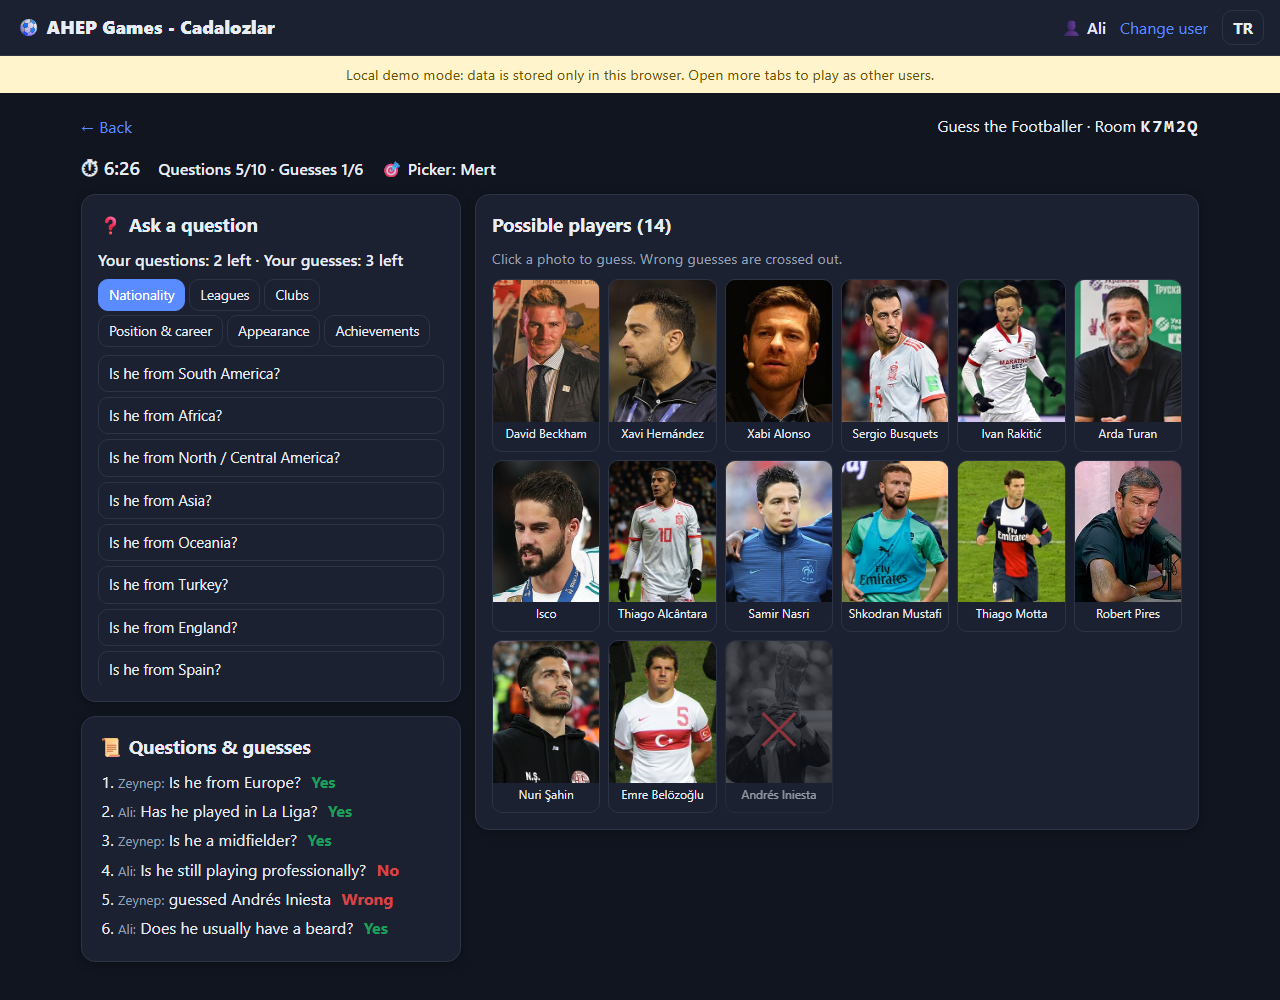
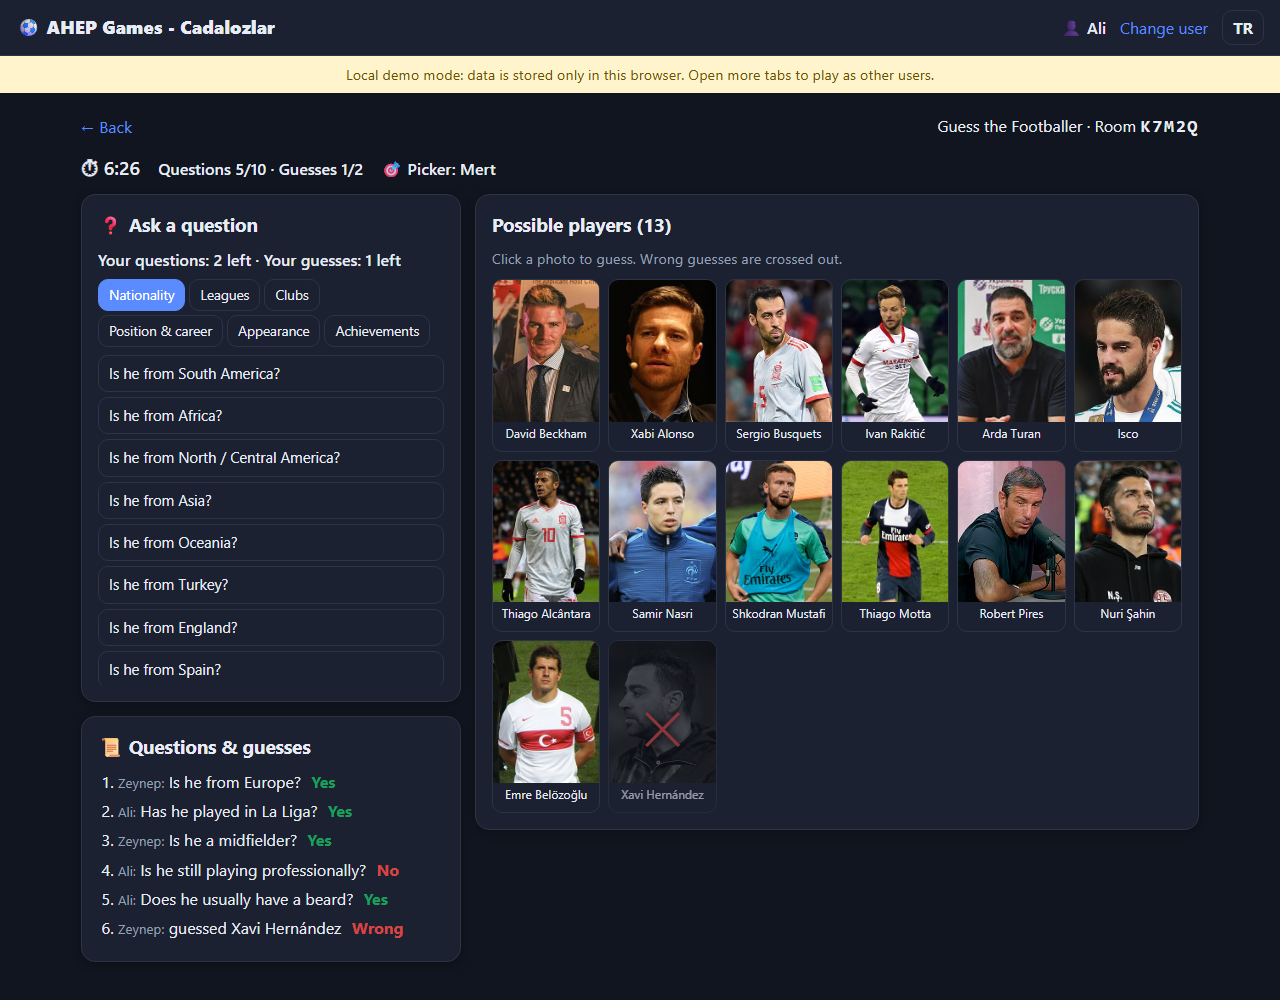
Trivia: 10 answer options; Footballer: 2 guesses per round
- Trivia questions show 10 options: 3 wrong answers from Open Trivia DB
  plus 6 generated (nearby numbers or similar answers from other questions)
- Guess the Footballer allows 2 guesses in total, split with the same rule
  as questions (3+ guessers share both guesses by vote)
- Status bar totals come from the rule constants
- Refreshed README screenshots

Changed region(s): [[0.375, 0.279, 0.9375, 0.806], [0.0938, 0.899, 0.3125, 0.961], [0.2812, 0.248, 0.3125, 0.279]]

diff --git a/js/trivia/questions.js b/js/trivia/questions.js
@@ -1,7 +1,7 @@
-// Questions come from Open Trivia DB (free, no key). Each question: {q, answers[4], correct, cat}
+// Questions come from Open Trivia DB (free, no key). Each question: {q, answers[10], correct, cat}
 import { shuffle } from "../lib.js";
 
-// [id, English name, Turkish name, number of 4-option questions (counted October 2026)]
+// [id, English name, Turkish name, number of multiple-choice questions (counted October 2026)]
 export const CATEGORIES = [
   [9, "General Knowledge", "Genel Kültür", 380],
   [21, "Sports", "Spor", 160],
@@ -43,18 +43,56 @@ async function fetchCategory(cat, amount) {
   return [];
 }
 
+export const OPTIONS = 10;
+
 export async function loadQuestions(cats, total) {
-  const per = Math.ceil(total / cats.length) + 2;
+  // Fetch extra questions: the unused ones still supply wrong answers for the others.
+  const per = Math.min(50, Math.max(30, Math.ceil(total / cats.length) + 2));
+  const d = decodeURIComponent;
   let all = [];
   for (let i = 0; i < cats.length; i++) {
     if (i > 0) await sleep(5200);
-    all = all.concat((await fetchCategory(cats[i], Math.min(50, per))).map((r) => ({ ...r, catId: cats[i] })));
+    const got = await fetchCategory(cats[i], per);
+    all = all.concat(
+      got.map((r) => ({ q: d(r.question), correct: d(r.correct_answer), wrong: r.incorrect_answers.map(d), cat: cats[i] }))
+    );
   }
-  const d = decodeURIComponent;
-  return shuffle(all)
-    .slice(0, total)
-    .map((r) => {
-      const answers = shuffle([r.correct_answer, ...r.incorrect_answers].map(d));
-      return { q: d(r.question), answers, correct: answers.indexOf(d(r.correct_answer)), cat: r.catId };
-    });
+  all = shuffle(all);
+  return all.slice(0, total).map((r) => {
+    const answers = shuffle([r.correct, ...r.wrong, ...extraWrong(r, all, OPTIONS - 1 - r.wrong.length)]);
+    return { q: r.q, answers, correct: answers.indexOf(r.correct), cat: r.cat };
+  });
+}
+
+// Open Trivia DB gives 3 wrong answers; the rest are made up here.
+// Numbers get nearby numbers; text answers borrow similar-looking answers from other questions.
+function extraWrong(r, all, n) {
+  const taken = new Set([r.correct, ...r.wrong].map((a) => a.toLowerCase()));
+  const out = [];
+  const add = (a) => {
+    if (out.length < n && a && !taken.has(String(a).toLowerCase())) {
+      taken.add(String(a).toLowerCase());
+      out.push(String(a));
+    }
+  };
+  if (/^-?\d+$/.test(r.correct)) {
+    const v = Number(r.correct);
+    const isYear = v >= 1000 && v <= 2100;
+    for (let tries = 0; out.length < n && tries < 200; tries++) {
+      const spread = isYear ? 15 : Math.max(3, Math.round(Math.abs(v) * 0.6));
+      const c = v + Math.round((Math.random() * 2 - 1) * spread);
+      if (c !== v && (v < 0 || c >= 0)) add(c);
+    }
+  }
+  const shape = (a) => [/^-?\d+$/.test(a), a.split(/\s+/).length, a.length];
+  const [num, words, len] = shape(r.correct);
+  const score = (a) => {
+    const [n2, w2, l2] = shape(a);
+    return (n2 === num ? 0 : 100) + Math.abs(w2 - words) * 5 + Math.abs(l2 - len) / 3 + Math.random() * 6;
+  };
+  for (const pool of [all.filter((x) => x.cat === r.cat && x !== r), all.filter((x) => x !== r)]) {
+    const candidates = pool.flatMap((x) => [x.correct, ...x.wrong]).map((a) => [score(a), a]);
+    for (const [, a] of candidates.sort((x, y) => x[0] - y[0])) add(a);
+  }
+  return out;
 }

diff --git a/js/i18n.js b/js/i18n.js
@@ -82,7 +82,7 @@ const STR = {
     winnerIs: "{name} found it!",
     pickerWins: "Nobody found it — {name} (picker) wins!",
     potInfo: "Pot: {pot} pts (questions {q}, wrong guesses {w}, minutes {m})",
-    questionsCount: "Questions {used}/10 · Guesses {g}/6",
+    questionsCount: "Questions {used}/{tq} · Guesses {g}/{tg}",
     cat_nat: "Nationality",
     cat_league: "Leagues",
     cat_club: "Clubs",
@@ -199,7 +199,7 @@ const STR = {
     winnerIs: "{name} buldu!",
     pickerWins: "Kimse bulamadı — seçici {name} kazandı!",
     potInfo: "Havuz: {pot} puan (soru {q}, yanlış tahmin {w}, dakika {m})",
-    questionsCount: "Soru {used}/10 · Tahmin {g}/6",
+    questionsCount: "Soru {used}/{tq} · Tahmin {g}/{tg}",
     cat_nat: "Uyruk",
     cat_league: "Ligler",
     cat_club: "Kulüpler",

diff --git a/css/style.css b/css/style.css
@@ -159,7 +159,7 @@ input, select {
 .question { font-size: 1.3rem; font-weight: 600; margin: 14px 0; }
 .phase-msg { font-weight: 700; }
 .answers { display: grid; grid-template-columns: 1fr 1fr; gap: 10px; }
-.answer { text-align: left; padding: 14px; font-size: 1rem; display: flex; flex-direction: column; gap: 4px; }
+.answer { text-align: left; padding: 10px 14px; font-size: 1rem; display: flex; flex-direction: column; gap: 4px; }
 .answer:disabled { opacity: 1; cursor: default; }
 .answer.right { background: var(--yes); color: #fff; border-color: var(--yes); }
 .answer.wrong { background: var(--no); color: #fff; border-color: var(--no); }

diff --git a/js/footballer/view.js b/js/footballer/view.js
@@ -123,7 +123,7 @@ function playing() {
   return html`
     <div class="status-bar">
       <span class="timer ${left < 60000 ? "urgent" : ""}">⏱ ${fmtTime(left)}</span>
-      <span>${t("questionsCount", { used: u.usedQ, g: u.usedG })}</span>
+      <span>${t("questionsCount", { used: u.usedQ, g: u.usedG, tq: logic.TOTAL_QUESTIONS, tg: logic.TOTAL_GUESSES })}</span>
       <span>🎯 ${t("picker")}: ${nameOf(room.picker)}</span>
     </div>
     <div class="cols">

diff --git a/js/footballer/logic.js b/js/footballer/logic.js
@@ -6,7 +6,7 @@ import { questionById } from "./data.js";
 export const FOOTBALLER_COUNT = 500; // size of data/players.json
 export const MAX_PLAYERS = 6;
 export const TOTAL_QUESTIONS = 10;
-export const TOTAL_GUESSES = 6;
+export const TOTAL_GUESSES = 2;
 export const ROUND_MS = 10 * 60 * 1000;
 
 // Even split; the remainder is shared and needs everyone's agreement.

diff --git a/README.md b/README.md
@@ -49,15 +49,17 @@ Share the link with your friends. 🎉
 - One player (the *picker*) secretly picks one of 500 footballers (search, filters or random).
 - The others ask yes/no questions from the built-in pool (nationality, leagues, clubs, position,
   appearance, achievements). Answers are automatic. The grid of possible players shrinks after each answer.
-- 10 questions and 6 guesses in total, split evenly between guessers. Leftovers are *shared*:
+- 10 questions and 2 guesses in total, split evenly between guessers. Leftovers are *shared*:
   a guesser proposes one, and all other guessers must agree.
 - 10 minutes per round. If nobody finds the player (time up or guesses used up), the picker gets 500 pts.
 - Pot = 1000 − 50 × questions − 50 × wrong guesses − 30 × minutes (min 100).
   The finder gets 70%, the other guessers share 30%.
 
 **Team Trivia** (2 teams, at least 2 players each)
-- The host picks subjects. Questions come from Open Trivia DB (in English): 4,444 four-option
+- The host picks subjects. Questions come from Open Trivia DB (in English): 4,444 multiple-choice
   questions across 22 subjects (counts per subject are in `js/trivia/questions.js`).
+- Each question shows 10 options. Open Trivia DB supplies 1 right and 3 wrong answers; the other
+  6 wrong answers are nearby numbers or similar-looking answers borrowed from other questions.
 - Coin flip decides who starts; the starting team alternates every question.
 - 20 questions, 2 minutes each. Only the team captain submits; teammates can suggest.
 - Wrong answer or time up → the other team gets 30 seconds to steal the point.
